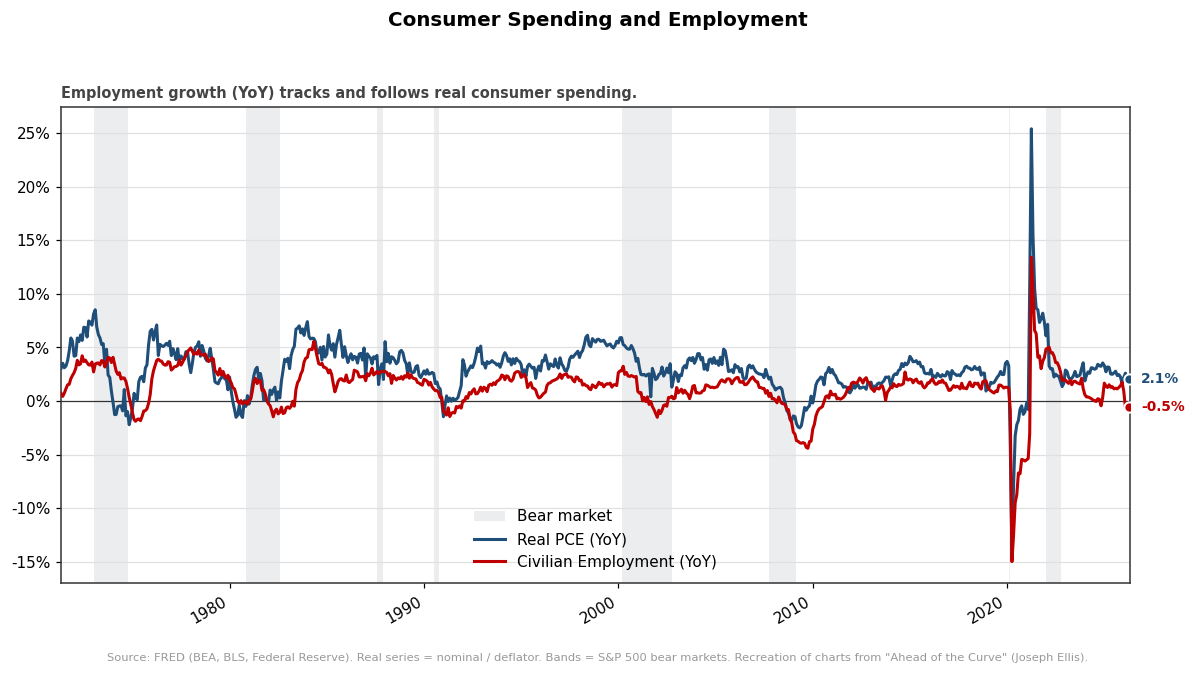
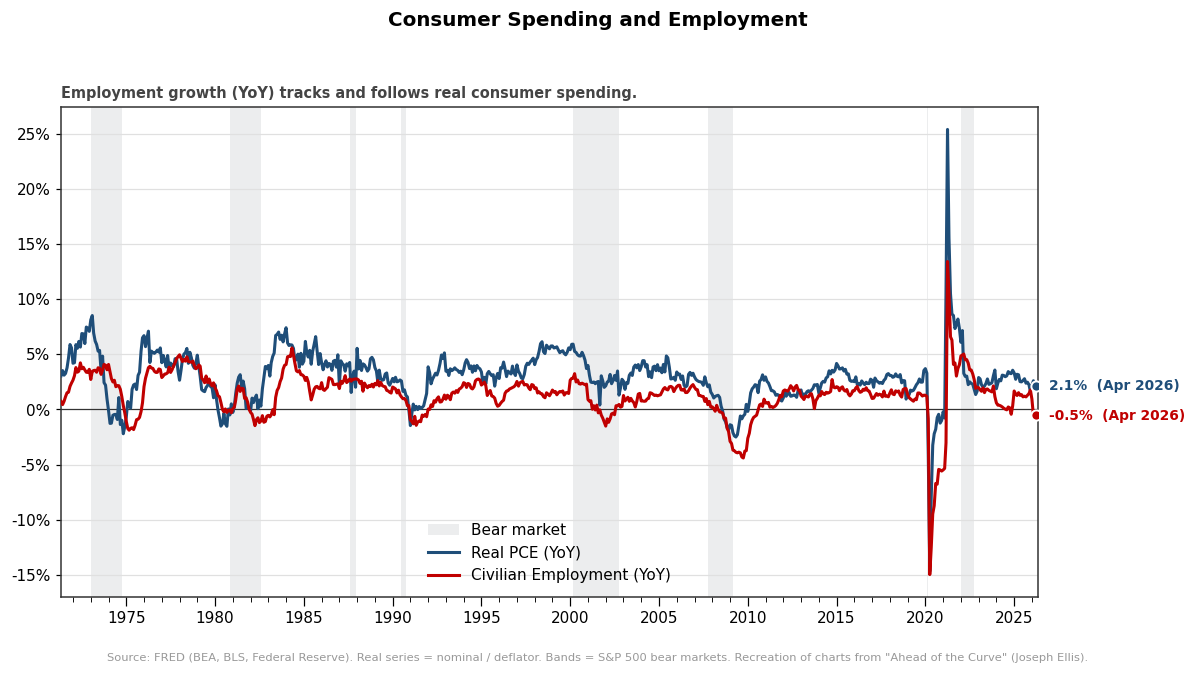
Ahead of the Curve: acceleration charts, 5-yr ticks, dated labels
Per request, three enhancements to the chart module:

- Acceleration (2nd-derivative) charts: new yoy_accel transform = the
  12-month change in the YoY growth rate, in percentage points (+ve =
  accelerating, -ve = decelerating). Three new figures over the same
  windows + bear bands: real PCE, real capex, real hourly earnings.
  Now 8 figures total (5 YoY/level + 3 acceleration).
- 5-year major tick marks (labeled) with yearly minor ticks, via
  matplotlib YearLocator (replaces autofmt_xdate).
- Latest-point annotations now include the data date, e.g.
  "2.1%  (Apr 2026)" / "+0.0pp  (Apr 2026)". Each series shows its own
  latest date (monthly PCE vs quarterly capex differ correctly).

_plot_series now returns a unit ('pct' | 'pp') so acceleration charts get
a +Npp y-axis formatter instead of %. Tests: +1 (yoy_accel sign tracks
acceleration), figure-count assertion 5 -> 8. 134 total green. Gallery +
PNGs regenerated (data through 2026-04).

diff --git a/readable/ahead_of_curve/index.html b/readable/ahead_of_curve/index.html
@@ -13,6 +13,6 @@
 </style></head><body>
 <h1>Ahead of the Curve — Charts</h1>
 <p class="meta">Recreation of Joseph Ellis's charts · year-over-year rate of change ·
-shaded bands = S&amp;P 500 bear markets · data through 2026-05-01 · 5 charts</p>
-<section><h2>Real Consumer Spending (PCE), Year-over-Year</h2><p class="sub">The leading indicator: real PCE growth peaks and rolls over ahead of bear markets.</p><img src="real_pce_yoy.png" alt="Real Consumer Spending (PCE), Year-over-Year"/></section><section><h2>Consumer Spending Leads Capital Spending</h2><p class="sub">Real business capex (YoY) follows real PCE (YoY) with a lag — the book's core lead/lag.</p><img src="pce_leads_capex.png" alt="Consumer Spending Leads Capital Spending"/></section><section><h2>Consumer Spending and Employment</h2><p class="sub">Employment growth (YoY) tracks and follows real consumer spending.</p><img src="pce_vs_employment.png" alt="Consumer Spending and Employment"/></section><section><h2>Real Hourly Earnings and Consumer Spending</h2><p class="sub">Real average hourly earnings (AHETPI deflated by CPI), YoY, vs real PCE.</p><img src="real_earnings_vs_spending.png" alt="Real Hourly Earnings and Consumer Spending"/></section><section><h2>Interest Rates and Bear Markets</h2><p class="sub">Fed funds and the 10-year Treasury (levels) against the bear-market record.</p><img src="rates_vs_bears.png" alt="Interest Rates and Bear Markets"/></section>
+shaded bands = S&amp;P 500 bear markets · data through 2026-05-01 · 8 charts</p>
+<section><h2>Real Consumer Spending (PCE), Year-over-Year</h2><p class="sub">The leading indicator: real PCE growth peaks and rolls over ahead of bear markets.</p><img src="real_pce_yoy.png" alt="Real Consumer Spending (PCE), Year-over-Year"/></section><section><h2>Real Consumer Spending — Acceleration</h2><p class="sub">Rate of change of the real PCE YoY growth rate (12-mo change, pp). Above zero = accelerating.</p><img src="pce_accel.png" alt="Real Consumer Spending — Acceleration"/></section><section><h2>Consumer Spending Leads Capital Spending</h2><p class="sub">Real business capex (YoY) follows real PCE (YoY) with a lag — the book's core lead/lag.</p><img src="pce_leads_capex.png" alt="Consumer Spending Leads Capital Spending"/></section><section><h2>Real Capital Spending — Acceleration</h2><p class="sub">Rate of change of the real business-capex YoY growth rate (12-mo change, pp). Above zero = accelerating.</p><img src="capex_accel.png" alt="Real Capital Spending — Acceleration"/></section><section><h2>Consumer Spending and Employment</h2><p class="sub">Employment growth (YoY) tracks and follows real consumer spending.</p><img src="pce_vs_employment.png" alt="Consumer Spending and Employment"/></section><section><h2>Real Hourly Earnings and Consumer Spending</h2><p class="sub">Real average hourly earnings (AHETPI deflated by CPI), YoY, vs real PCE.</p><img src="real_earnings_vs_spending.png" alt="Real Hourly Earnings and Consumer Spending"/></section><section><h2>Real Hourly Earnings — Acceleration</h2><p class="sub">Rate of change of the real-hourly-earnings YoY growth rate (12-mo change, pp). Above zero = accelerating.</p><img src="earnings_accel.png" alt="Real Hourly Earnings — Acceleration"/></section><section><h2>Interest Rates and Bear Markets</h2><p class="sub">Fed funds and the 10-year Treasury (levels) against the bear-market record.</p><img src="rates_vs_bears.png" alt="Interest Rates and Bear Markets"/></section>
 </body></html>

diff --git a/ahead_of_curve/charts.py b/ahead_of_curve/charts.py
@@ -15,6 +15,7 @@ from pathlib import Path
 import matplotlib
 
 matplotlib.use("Agg")  # headless: no display needed for file output
+import matplotlib.dates as mdates  # noqa: E402
 import matplotlib.pyplot as plt  # noqa: E402
 import pandas as pd  # noqa: E402
 
@@ -23,6 +24,7 @@ from ..charts.style import CYCLE, DEFAULT_DPI, DEFAULT_FIGSIZE  # noqa: E402
 _BEAR_COLOR = "#9AA0A6"       # grey bands (bear markets, primary)
 _RECESSION_COLOR = "#C0504D"  # muted red bands (NBER recessions, secondary)
 _PCT_FORMATTER = plt.FuncFormatter(lambda v, _pos: f"{v:.0f}%")
+_PP_FORMATTER = plt.FuncFormatter(lambda v, _pos: f"{v:+.0f}pp")
 
 
 # --------------------------------------------------------------------------- #
@@ -50,6 +52,16 @@ def yoy_pct(series: pd.Series) -> pd.Series:
     s = series.dropna()
     periods = _infer_periods_per_year(s)
     return (s.pct_change(periods) * 100).dropna()
+
+
+def yoy_accel(series: pd.Series) -> pd.Series:
+    """Rate of change of the YoY growth rate: the 12-month change in the YoY series,
+    in percentage points. Positive => growth is accelerating, negative => decelerating.
+    Answers the book's 'is the rate of change increasing or decreasing?' The 12-month
+    differencing smooths the otherwise-noisy month-to-month derivative."""
+    s = series.dropna()
+    periods = _infer_periods_per_year(s)
+    return yoy_pct(s).diff(periods).dropna()
 
 
 def real_deflate(nominal: pd.Series, deflator: pd.Series) -> pd.Series:
@@ -165,19 +177,23 @@ def parse_figures(raw: dict) -> tuple[list[FigureSpec], str]:
     return figs, source_note
 
 
-def _plot_series(spec: SeriesSpec, fetched: dict[str, pd.Series]) -> tuple[pd.Series, bool]:
-    """Return (values_series, is_pct) for one SeriesSpec. is_pct => format axis as %."""
+def _plot_series(spec: SeriesSpec, fetched: dict[str, pd.Series]) -> tuple[pd.Series, str]:
+    """Return (values_series, unit) for one SeriesSpec. unit is 'pct' (percent: yoy
+    growth or rate levels) or 'pp' (percentage points: yoy acceleration)."""
+    unit = "pp" if spec.transform == "yoy_accel" else "pct"
     base = fetched.get(spec.fred)
     if base is None or base.dropna().empty:
-        return pd.Series(dtype=float), spec.transform == "yoy"
+        return pd.Series(dtype=float), unit
     if spec.divide_by:
         deflator = fetched.get(spec.divide_by)
         if deflator is None or deflator.dropna().empty:
-            return pd.Series(dtype=float), True
+            return pd.Series(dtype=float), unit
         base = real_deflate(base, deflator)
     if spec.transform == "yoy":
-        return yoy_pct(base), True
-    return base.dropna(), True  # 'raw' here is rate levels (also a percent)
+        return yoy_pct(base), "pct"
+    if spec.transform == "yoy_accel":
+        return yoy_accel(base), "pp"
+    return base.dropna(), "pct"  # 'raw' here is rate levels (also a percent)
 
 
 def render_figure(
@@ -205,31 +221,42 @@ def render_figure(
         ranges = [_clip(a, b) for a, b in recessions if b >= start and a <= end]
         _shade(ax, ranges, _RECESSION_COLOR, "NBER recession")
 
-    all_pct = True
+    units: set[str] = set()
     plotted_any = False
     for idx, s in enumerate(fig_spec.series):
-        values, is_pct = _plot_series(s, fetched)
-        all_pct = all_pct and is_pct
+        values, unit = _plot_series(s, fetched)
         win = values[(values.index >= start) & (values.index <= end)]
         if win.empty:
             continue
         plotted_any = True
+        units.add(unit)
         color = CYCLE[idx % len(CYCLE)]
         ax.plot(win.index, win.values, label=s.label, color=color, linewidth=2.0, zorder=3)
-        # Annotate the latest point.
+        # Annotate the latest point with its value AND its date.
         last_d, last_v = win.index.max(), win.iloc[-1]
+        val_txt = f"{last_v:+.1f}pp" if unit == "pp" else f"{last_v:.1f}%"
         ax.scatter([last_d], [last_v], color=color, s=45, zorder=5,
                    edgecolor="white", linewidth=1.3)
-        ax.annotate(f"{last_v:.1f}%", xy=(last_d, last_v), xytext=(8, 0),
+        ax.annotate(f"{val_txt}  ({last_d:%b %Y})", xy=(last_d, last_v), xytext=(8, 0),
                     textcoords="offset points", fontsize=9, color=color,
                     weight="bold", va="center")
 
     if not plotted_any:
         raise ValueError(f"figure {fig_spec.id!r}: no series produced data in window")
 
-    if all_pct:
-        ax.axhline(0, color="#333333", linewidth=0.8, zorder=2)
+    # Zero reference line + unit-appropriate y-axis formatting.
+    ax.axhline(0, color="#333333", linewidth=0.8, zorder=2)
+    if units == {"pp"}:
+        ax.yaxis.set_major_formatter(_PP_FORMATTER)
+    elif units == {"pct"}:
         ax.yaxis.set_major_formatter(_PCT_FORMATTER)
+
+    # 5-year major tick marks (labeled), yearly minor ticks.
+    ax.xaxis.set_major_locator(mdates.YearLocator(5))
+    ax.xaxis.set_major_formatter(mdates.DateFormatter("%Y"))
+    ax.xaxis.set_minor_locator(mdates.YearLocator(1))
+    ax.tick_params(axis="x", which="major", length=6, labelrotation=0)
+    ax.tick_params(axis="x", which="minor", length=3)
 
     # Subtitle as a left-aligned axes title; main title as the figure suptitle
     # above it (avoids the two colliding at the top of the axes).
@@ -239,7 +266,6 @@ def render_figure(
     ax.legend(loc="best")
     ax.set_xlim(start, end)
 
-    fig.autofmt_xdate()
     fig.tight_layout(rect=[0, 0.03, 1, 0.96])
     if source_note:
         fig.text(0.5, 0.005, source_note, ha="center", fontsize=7.5, color="#999999")

diff --git a/tests/test_ahead_of_curve.py b/tests/test_ahead_of_curve.py
@@ -107,10 +107,27 @@ def test_render_figure_smoke(tmp_path):
     assert out.exists() and out.stat().st_size > 1000
 
 
+def test_yoy_accel_sign_tracks_acceleration():
+    from macro_monitor.ahead_of_curve.charts import yoy_accel
+    # Build a series whose YoY growth steadily accelerates, then decelerates.
+    # 48 months: first 24 grow at an increasing rate, last 24 at a decreasing rate.
+    vals = [100.0]
+    rates = [0.005 * i for i in range(24)] + [0.005 * (24 - i) for i in range(24)]
+    for r in rates:
+        vals.append(vals[-1] * (1 + r))
+    s = _monthly(vals)
+    accel = yoy_accel(s)
+    # Acceleration is positive while growth is speeding up, negative while slowing.
+    assert (accel.iloc[: len(accel) // 2] > 0).mean() > 0.7
+    assert accel.iloc[-1] < 0
+
+
 def test_config_files_present_and_valid():
     import yaml
     d = Path(__file__).parent.parent / "ahead_of_curve"
     figs, _ = parse_figures(yaml.safe_load((d / "figures.yaml").read_text(encoding="utf-8")))
     bears = parse_bear_markets(yaml.safe_load((d / "bear_markets.yaml").read_text(encoding="utf-8")))
-    assert len(figs) == 5, "MVP ships 5 figures"
+    assert len(figs) == 8, "MVP 5 + 3 acceleration charts"
+    accel = [f for f in figs if any(s.transform == "yoy_accel" for s in f.series)]
+    assert len(accel) == 3, "PCE, capex, real-earnings acceleration charts"
     assert len(bears) >= 8, "expected the curated bear-market list"
